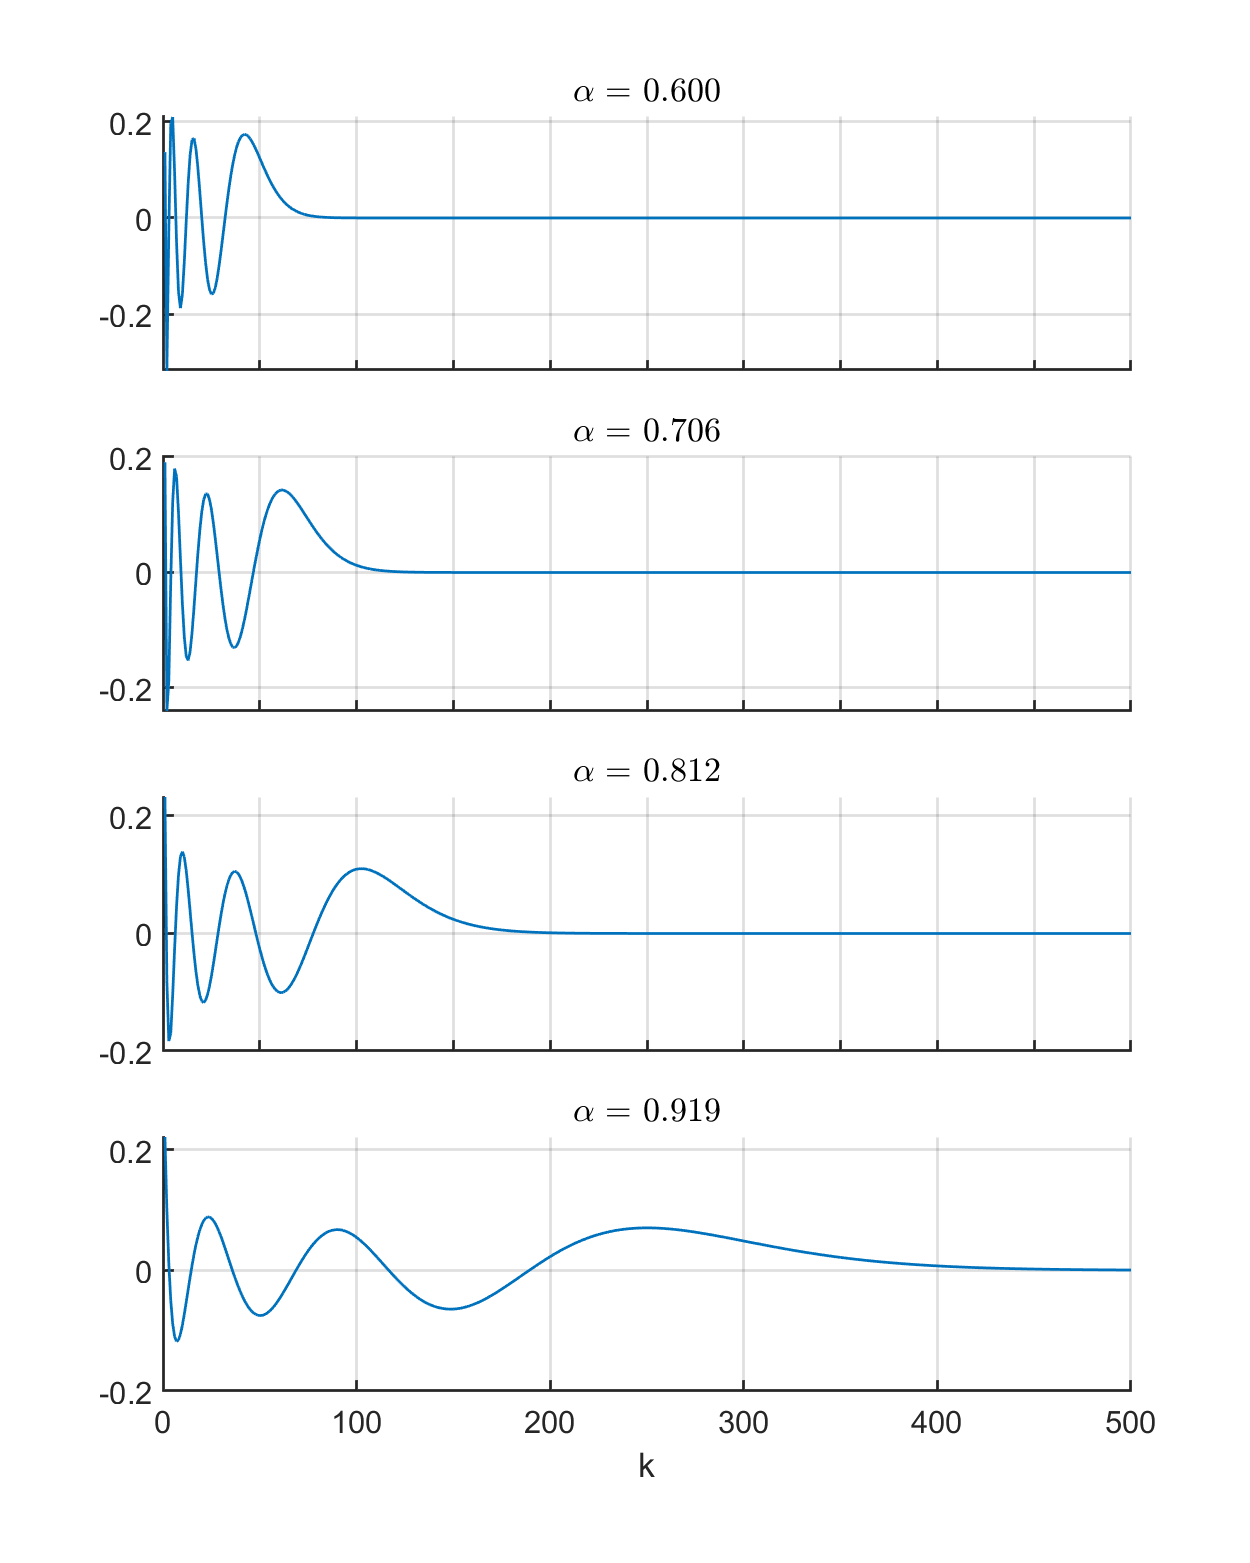
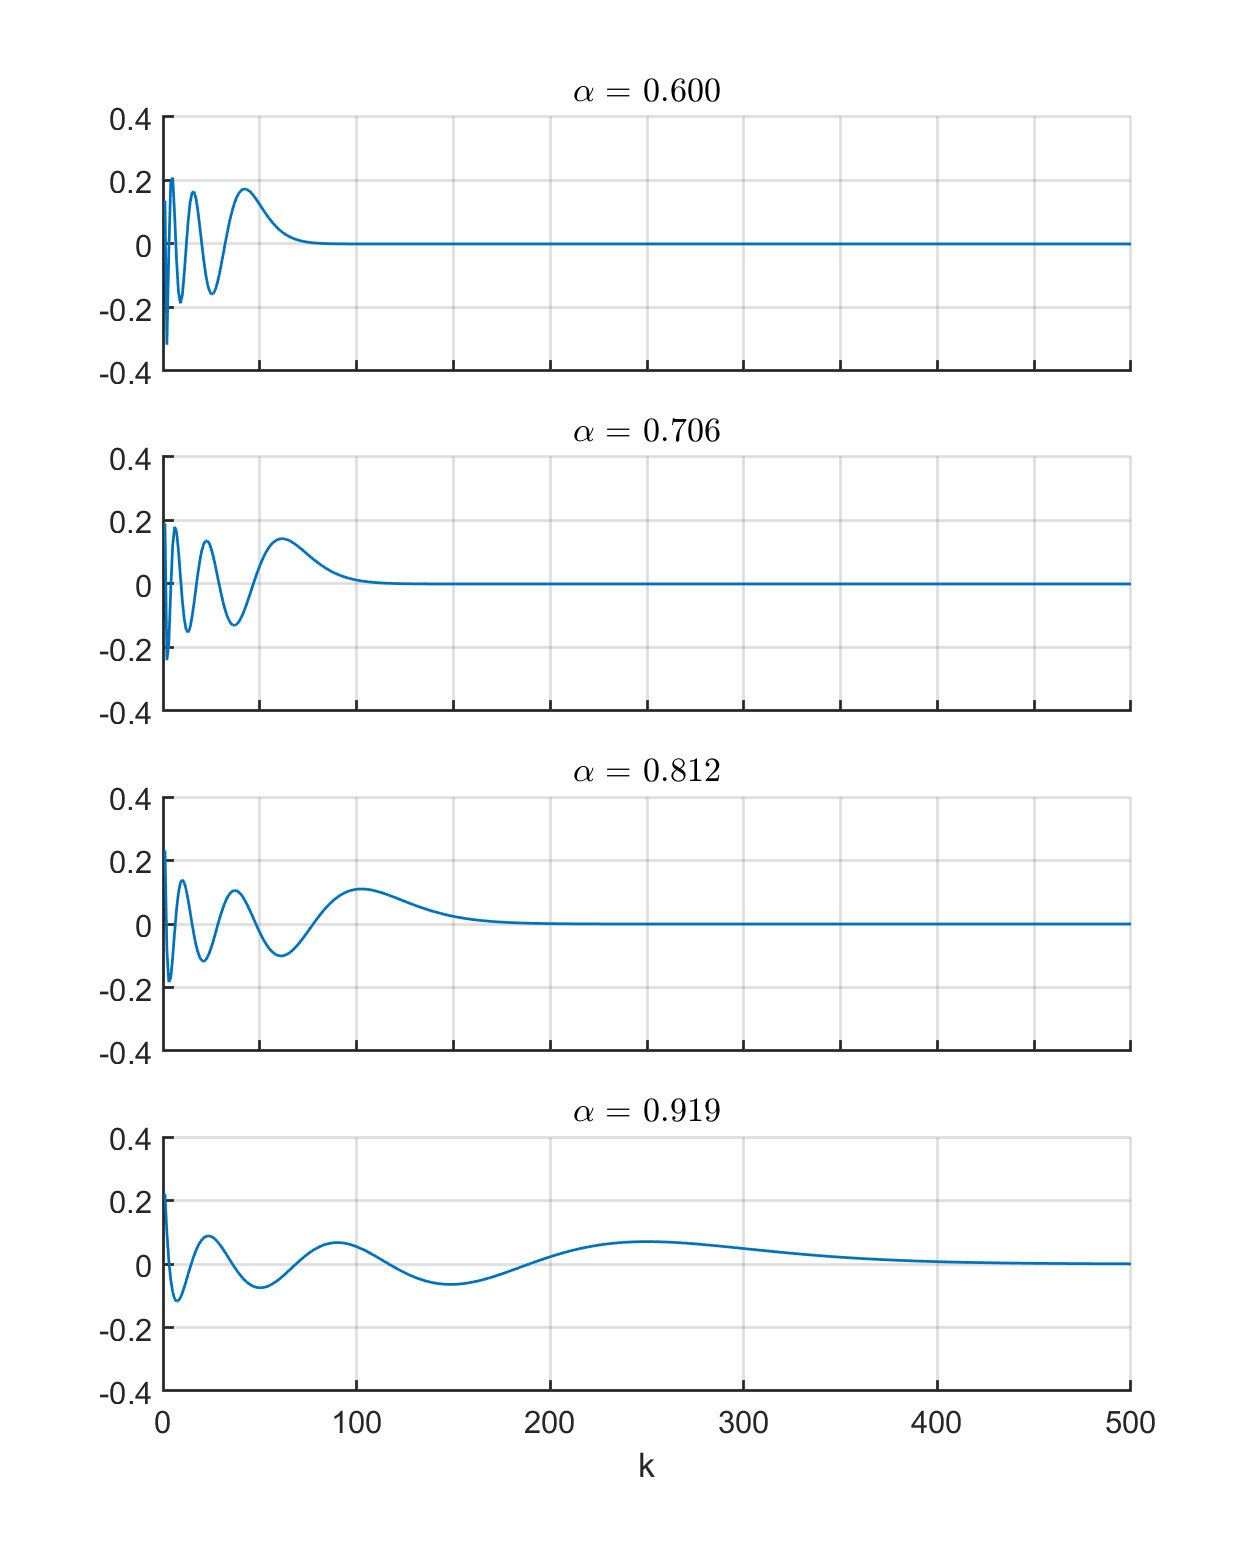
updated figure

diff --git a/AlphaDeterminatin/PlotLaguerre.m b/AlphaDeterminatin/PlotLaguerre.m
@@ -32,6 +32,8 @@ for i = 1:length(alpha)
     nexttile
     laguerreFuncs = Laguerre(L,8,alpha(i));
     plot(laguerreFuncs(:,7),'LineWidth',1.3)
+    ylim([-0.4 0.4])
+    set(gca,'YTick',[-0.4 -0.2 0 0.2 0.4])
     if i~=4
     xticklabels({})
     end
